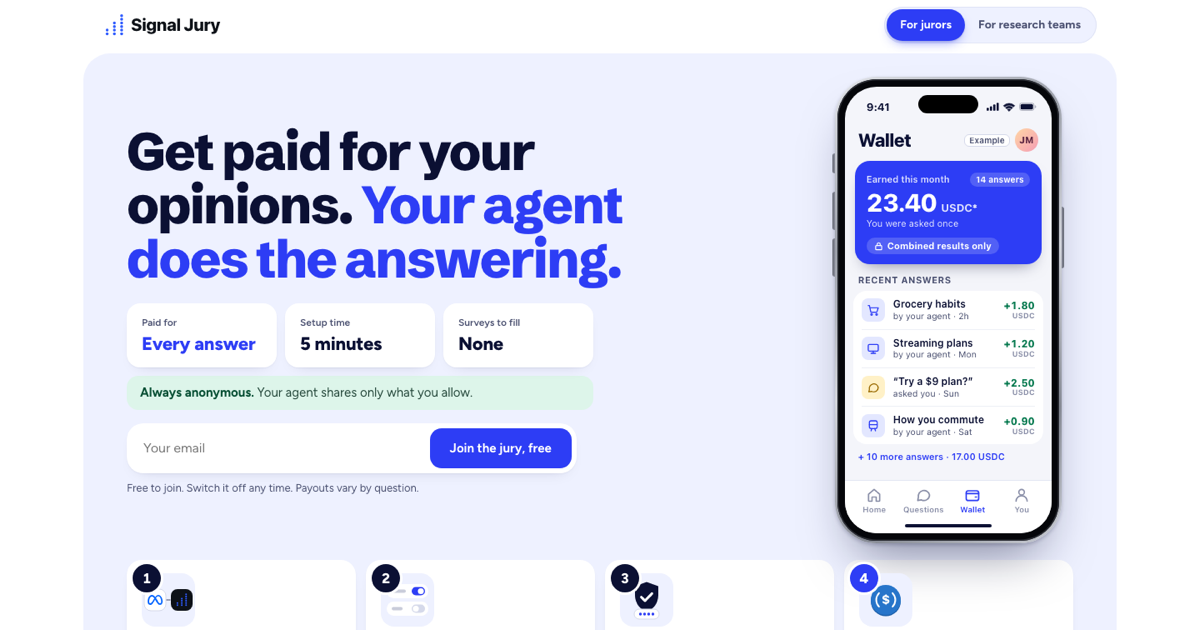
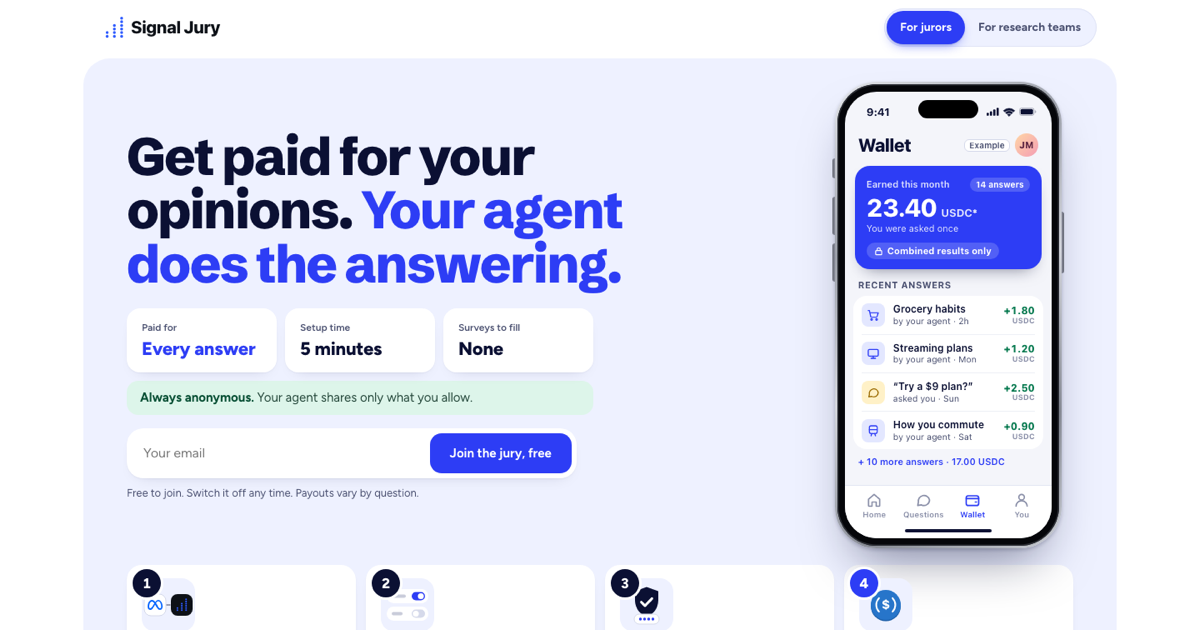
Example answers as conversations; switch polish
Example answers (research teams page): each card is now an exchange. The
research team's question is a sent message; the agent replies in a bubble
signed with its logo and name (Grok, Muse, OpenClaw), with the short example
answer as the largest text. On the Hermes card the agent hands the question
to its person, shown with a hand-off chip and a 'Person via Hermes' reply.
A single key by the heading marks them as example answers from four
different agents. Design from the d1 prototype, which all three judges
picked, with their grafts: larger logo tiles and names, larger answers,
reply bubbles aligned across each row, a one-line hand-off chip on 360px
phones, and no hover lift on non-clickable cards.

Switch: role=group with an 'Audience' label, 40px options at every width,
a second click during the slide is ignored, and both headers are the same
height so the switch does not move between pages.

diff --git a/teams.html b/teams.html
@@ -72,6 +72,7 @@
     var opt = e.target && e.target.closest ? e.target.closest('a.sj-switch-opt') : null;
     var sw = opt && opt.closest('.sj-switch');
     if (!sw || e.defaultPrevented || e.button !== 0 || e.metaKey || e.ctrlKey || e.shiftKey || e.altKey) return;
+    if (sw.classList.contains('is-sliding')) { e.preventDefault(); return; }
     if (opt.getAttribute('aria-current') === 'page') { e.preventDefault(); return; }
     var from = sw.querySelector('a[aria-current="page"]');
     if (reduce.matches || !from || !sw.querySelector('.sj-switch-thumb')) return;
@@ -132,7 +133,7 @@ a{color:#2D3DF5}a:hover{color:#1A27C9}
 #dc-root h1,#dc-root h2,#dc-root h3{text-wrap:balance}
 /* audience switch: For jurors | For research teams */
 .sj-switch{--sw-pad:3px;--sw-on:#2D3DF5;--sw-on-text:#FFFFFF;--sw-off-text:#4A5070;--sw-on-shadow:0 1px 2px rgba(11,16,51,.12),0 6px 14px -6px rgba(45,61,245,.65);--sw-ease:cubic-bezier(.4,0,.2,1);position:relative;isolation:isolate;display:inline-flex;align-items:center;flex:none;padding:var(--sw-pad);border-radius:999px;background:#EEF1FF;box-shadow:inset 0 0 0 1px #E0E4F6}
-.sj-switch-opt{position:relative;display:inline-flex;align-items:center;justify-content:center;min-height:38px;padding:0 16px;border-radius:999px;color:var(--sw-off-text);font-size:14px;line-height:1.2;font-weight:700;text-decoration:none;white-space:nowrap;-webkit-tap-highlight-color:transparent;transition:color .15s ease,background-color .15s ease}
+.sj-switch-opt{position:relative;display:inline-flex;align-items:center;justify-content:center;min-height:40px;padding:0 16px;border-radius:999px;color:var(--sw-off-text);font-size:14px;line-height:1.2;font-weight:700;text-decoration:none;white-space:nowrap;-webkit-tap-highlight-color:transparent;transition:color .15s ease,background-color .15s ease}
 .sj-switch-opt:hover{color:#0B1033;background:rgba(255,255,255,.75)}
 .sj-switch-opt[aria-current="page"]{cursor:default;background:var(--sw-on);color:var(--sw-on-text);box-shadow:var(--sw-on-shadow)}
 .sj-switch .sj-switch-opt:focus-visible{outline:2px solid #2D3DF5;outline-offset:2px}
@@ -279,30 +280,6 @@ a{color:#2D3DF5}a:hover{color:#1A27C9}
 .t-step-n{position:absolute;top:-11px;left:-11px;width:30px;height:30px;border-radius:50%;background:var(--navy);color:#FFFFFF;font-size:15px;font-weight:800;line-height:1;display:flex;align-items:center;justify-content:center;box-shadow:0 0 0 3px #FFFFFF}
 .t-step h3{font-size:17.5px;line-height:1.3;font-weight:800;letter-spacing:-.01em}
 .t-step p{margin-top:8px;font-size:15px;color:var(--muted)}
-/* example questions */
-.t-qs{margin-top:44px;display:grid;grid-template-columns:repeat(2,minmax(0,1fr));gap:16px}
-.t-q{display:flex;flex-direction:column;justify-content:space-between;gap:22px;padding:28px;border:1px solid var(--line);border-radius:24px;background:#FFFFFF;transition:box-shadow .2s ease,transform .2s ease}
-.t-q:hover{box-shadow:0 18px 40px -28px rgba(11,16,51,.45);transform:translateY(-2px)}
-.t-q-text{font-family:'Schibsted Grotesk','Figtree',sans-serif;font-size:22px;line-height:1.28;font-weight:700;letter-spacing:-.015em}
-.t-q-by{display:flex;align-items:center;gap:12px;padding-top:18px;border-top:1px solid #EEF0F6}
-.t-avatar{width:34px;height:34px;flex:0 0 auto;display:grid;place-items:center}
-.t-avatar-agent{border-radius:10px;background:#0d1117}
-.t-avatar-mark{width:16px;height:16px}
-.t-avatar-person{border-radius:50%;background:linear-gradient(135deg,#FFD6A5,#F49DB4);color:#5A2340}
-.t-avatar-ic{width:18px;height:18px}
-.t-agent-logo{position:relative;width:40px;height:40px;flex:0 0 auto;border-radius:12px;display:grid;place-items:center;background:#FFFFFF;box-shadow:inset 0 0 0 1px #E3E6F2}
-.t-agent-logo img{display:block;width:24px;height:24px}
-.t-agent-grok{background:#000000;box-shadow:none}
-.t-agent-grok img{width:22px;height:22px}
-.t-agent-hermes{background:#0d1117;box-shadow:none}
-.t-agent-hermes img{width:40px;height:40px;border-radius:12px}
-.t-agent-person{position:absolute;right:-7px;bottom:-7px;width:22px;height:22px;border-radius:50%;background:linear-gradient(135deg,#FFD6A5,#F49DB4);color:#5A2340;display:grid;place-items:center;box-shadow:0 0 0 2.5px #FFFFFF}
-.t-agent-person svg{width:13px;height:13px}
-.t-agent-name{font-weight:800;font-size:15px;color:var(--ink)}
-.t-q-who{display:flex;flex-wrap:wrap;align-items:center;gap:4px 10px;font-size:14px;color:var(--muted)}
-.t-pill{font-size:12.5px;font-weight:700;border-radius:999px;padding:3px 10px}
-.t-pill-agent{color:#065F3E;background:var(--green-bg)}
-.t-pill-person{color:#1A27C9;background:#E3E7FF}
 /* privacy flow */
 .t-flow{position:relative;z-index:1;margin-top:52px;display:grid;grid-template-columns:repeat(3,minmax(0,1fr));gap:40px}
 .t-flow-step{position:relative;border-radius:24px;background:rgba(255,255,255,.05);box-shadow:inset 0 0 0 1px rgba(255,255,255,.1);padding:30px 26px}
@@ -403,9 +380,6 @@ a{color:#2D3DF5}a:hover{color:#1A27C9}
 .t-step-n{width:26px;height:26px;font-size:13px;top:-9px;left:-9px}
 .t-step h3{font-size:16px}
 .t-step p{margin-top:4px;font-size:14.5px}
-.t-qs{margin-top:28px}
-.t-q{padding:22px}
-.t-q-text{font-size:18.5px}
 .t-flow{margin-top:32px;gap:30px}
 .t-flow-step{display:grid;grid-template-columns:44px minmax(0,1fr);column-gap:14px;padding:18px}
 .t-flow-icon{grid-row:1 / span 3;width:44px;height:44px;border-radius:13px}
@@ -423,12 +397,80 @@ a{color:#2D3DF5}a:hover{color:#1A27C9}
 .t-form{padding:20px}
 .t-foot{padding:20px 20px 28px}
 }
+/* example answers: one exchange per card (question sent, agent replies) */
+.t-sr{position:absolute;width:1px;height:1px;overflow:hidden;clip:rect(0 0 0 0);clip-path:inset(50%);white-space:nowrap}
+.t-nowrap{white-space:nowrap}
+.t-q-head{display:flex;flex-wrap:wrap;align-items:flex-end;justify-content:space-between;gap:20px 40px}
+#questions .t-intro{text-wrap:pretty}
+.t-key{display:inline-flex;align-items:center;gap:12px;padding:6px 16px 6px 6px;border-radius:999px;background:var(--tint);font-size:13.5px;line-height:1.3;color:var(--muted)}
+.t-key b{color:var(--ink);font-weight:800}
+.t-key-tiles{display:flex;gap:4px}
+.t-key .t-tile{width:32px;height:32px;border-radius:10px}
+.t-key-text{max-width:150px}
+.t-convos{margin-top:44px;display:grid;grid-template-columns:repeat(2,minmax(0,1fr));gap:20px}
+.t-convo{position:relative;isolation:isolate;display:flex;flex-direction:column;gap:18px;padding:26px 26px 28px;border-radius:24px;background:var(--tint);overflow:hidden}
+.t-convo::before{content:"";position:absolute;z-index:-1;left:-24px;top:-24px;width:260px;height:200px;pointer-events:none;background-image:radial-gradient(circle,rgba(45,61,245,.16) 1.6px,transparent 2px);background-size:16px 16px;-webkit-mask-image:radial-gradient(closest-side,#000,transparent);mask-image:radial-gradient(closest-side,#000,transparent)}
+.t-ask{display:flex;justify-content:flex-end}
+.t-ask-bubble{max-width:min(78%,430px);padding:11px 16px 12px;border-radius:20px 20px 6px 20px;background:var(--accent);color:#FFFFFF;font-size:15.5px;line-height:1.42;font-weight:600;box-shadow:0 12px 24px -16px rgba(45,61,245,.8)}
+.t-reply{display:flex;align-items:flex-start;gap:14px;margin-top:auto}
+.t-reply-bubble{flex:1 1 auto;min-width:0;max-width:520px;padding:14px 20px 16px;border-radius:6px 20px 20px 20px;background:#FFFFFF;box-shadow:0 1px 2px rgba(11,16,51,.04),0 10px 24px -16px rgba(11,16,51,.22)}
+.t-reply-who{display:flex;flex-wrap:wrap;align-items:center;gap:4px 10px;line-height:1.3}
+.t-reply-name{font-family:'Schibsted Grotesk','Figtree',sans-serif;font-size:16px;font-weight:800;letter-spacing:-.01em;color:var(--ink)}
+.t-reply-via{font-size:14.5px;font-weight:600;color:var(--muted)}
+.t-reply-via b{font-family:'Schibsted Grotesk','Figtree',sans-serif;font-size:16px;font-weight:800;color:var(--ink)}
+.t-reply-text{margin-top:8px;font-family:'Schibsted Grotesk','Figtree',sans-serif;font-size:24px;line-height:1.22;font-weight:800;letter-spacing:-.026em;color:var(--ink)}
+.t-reply-src{margin-top:10px;font-size:13px;line-height:1.4;color:var(--muted)}
+.t-tile{position:relative;flex:none;width:48px;height:48px;border-radius:14px;display:grid;place-items:center;overflow:hidden}
+.t-tile img{display:block;height:auto}
+.t-tile-dark{background:#000000}
+.t-tile-light{background:#FFFFFF;box-shadow:inset 0 0 0 1px var(--line)}
+.t-tile-grok img{width:53%}
+.t-tile-muse img{width:63%}
+.t-tile-openclaw img{width:60%}
+.t-tile-hermes{background:#0d1117}
+.t-tile-hermes img{width:100%;height:100%;object-fit:cover}
+.t-person{flex:none;display:grid;place-items:center;width:40px;height:40px;border-radius:50%;background:linear-gradient(135deg,#FFD6A5,#F49DB4);color:#5A2340}
+.t-person svg{width:58%;height:58%}
+.t-handoff{align-self:center;display:inline-flex;align-items:center;gap:10px;padding:4px 14px 4px 4px;border-radius:999px;background:#FFFFFF;box-shadow:inset 0 0 0 1px #C9D0FF;font-size:13px;line-height:1.3;font-weight:700;color:#1A27C9;white-space:nowrap}
+.t-handoff-avs{display:inline-flex;align-items:center;gap:4px}
+.t-handoff .t-tile{width:26px;height:26px;border-radius:8px}
+.t-handoff .t-person{width:26px;height:26px}
+.t-handoff-arrow{width:14px;height:14px}
+.t-av-duo{position:relative;flex:none;width:48px;height:48px;margin-right:6px}
+.t-av-duo .t-person{position:absolute;right:-9px;bottom:-9px;width:28px;height:28px;box-shadow:0 0 0 2.5px var(--tint)}
+.t-reply-person .t-reply-bubble{box-shadow:inset 0 0 0 1.5px #C9D0FF,0 10px 24px -16px rgba(26,39,201,.35)}
+.t-pill{font-size:12px;line-height:1.5;font-weight:700;border-radius:999px;padding:1px 9px}
+.t-pill-agent{color:#065F3E;background:var(--green-bg)}
+.t-pill-person{color:#1A27C9;background:#E3E7FF}
+@media (max-width:900px){.t-convos{grid-template-columns:minmax(0,1fr)}}
+@media (max-width:560px){
+.t-key{font-size:13px;gap:10px}
+.t-key .t-tile{width:28px;height:28px;border-radius:8px}
+.t-key-text{max-width:none}
+.t-convos{margin-top:24px;gap:12px}
+.t-convo{gap:14px;padding:16px 16px 18px;border-radius:20px}
+.t-ask-bubble{max-width:88%;padding:10px 14px 11px;border-radius:18px 18px 5px 18px;font-size:15px}
+.t-reply{gap:10px}
+.t-tile{width:40px;height:40px;border-radius:12px}
+.t-av-duo{width:40px;height:40px}
+.t-av-duo .t-person{width:24px;height:24px;right:-8px;bottom:-8px}
+.t-reply-bubble{max-width:none;padding:11px 14px 13px;border-radius:5px 18px 18px 18px}
+.t-reply-name,.t-reply-via b{font-size:15px}
+.t-reply-text{margin-top:5px;font-size:18.5px;line-height:1.25}
+.t-reply-src{margin-top:8px;font-size:12.5px}
+.t-handoff{font-size:12.5px}
+}
+@media (max-width:380px){
+.t-handoff{gap:6px;padding:3px 12px 3px 3px;font-size:12px}
+.t-handoff .t-tile,.t-handoff .t-person{width:22px;height:22px}
+.t-handoff-arrow{width:12px;height:12px}
+}
 </style>
 </helmet>
 <div class="t-page" style="--accent: {{accent}};">
 <header class="t-header"><nav class="t-nav" aria-label="Main">
 <a class="t-brand" href="#top"><svg width="146" height="26" sc-camel-view-box="0 0 168 30" role="img" aria-label="Signal Jury" class="t-logo"><g fill="#2e5bff"><circle cx="5" cy="27" r="2"></circle><circle cx="5" cy="22" r="2"></circle><circle cx="15" cy="27" r="2"></circle><circle cx="15" cy="22" r="2"></circle><circle cx="15" cy="17" r="2"></circle><circle cx="15" cy="12" r="2"></circle><circle cx="25" cy="27" r="2"></circle><circle cx="25" cy="22" r="2"></circle><circle cx="25" cy="17" r="2"></circle><circle cx="25" cy="12" r="2"></circle><circle cx="25" cy="7" r="2"></circle><circle cx="25" cy="2" r="2"></circle></g><text x="38" y="23.5" font-family="-apple-system, BlinkMacSystemFont, 'SF Pro Display', 'Segoe UI', Roboto, Helvetica, Arial, sans-serif" font-size="24" font-weight="800" letter-spacing="-0.5" fill="#0d1117">Signal Jury</text></svg></a>
-<div class="t-links"><a class="t-link t-nav-link" href="#how" sc-camel-on-click="{{ toHow }}">How it works</a><a class="t-link t-nav-link" href="#quality" sc-camel-on-click="{{ toQuality }}">Data quality</a><a class="t-btn t-btn-dark t-btn-sm sj-btn t-nav-cta" href="#pilot" sc-camel-on-click="{{ toPilot }}">Convene a jury</a><div class="sj-switch"><span class="sj-switch-thumb" aria-hidden="true"></span><a class="sj-switch-opt" href="./"><span class="sj-switch-full">For jurors</span><span class="sj-switch-short" aria-hidden="true">Jurors</span></a><a class="sj-switch-opt" href="teams.html" aria-current="page"><span class="sj-switch-full">For research teams</span><span class="sj-switch-short" aria-hidden="true">Research teams</span></a></div></div></nav></header>
+<div class="t-links"><a class="t-link t-nav-link" href="#how" sc-camel-on-click="{{ toHow }}">How it works</a><a class="t-link t-nav-link" href="#quality" sc-camel-on-click="{{ toQuality }}">Data quality</a><a class="t-btn t-btn-dark t-btn-sm sj-btn t-nav-cta" href="#pilot" sc-camel-on-click="{{ toPilot }}">Convene a jury</a><div class="sj-switch" role="group" aria-label="Audience"><span class="sj-switch-thumb" aria-hidden="true"></span><a class="sj-switch-opt" href="./"><span class="sj-switch-full">For jurors</span><span class="sj-switch-short" aria-hidden="true">Jurors</span></a><a class="sj-switch-opt" href="teams.html" aria-current="page"><span class="sj-switch-full">For research teams</span><span class="sj-switch-short" aria-hidden="true">Research teams</span></a></div></div></nav></header>
 <main id="top">
 <section class="t-band t-band-first"><div class="t-hero">
 <div class="t-hero-glow" aria-hidden="true"></div><div class="t-dots" aria-hidden="true"></div>
@@ -447,9 +489,14 @@ a{color:#2D3DF5}a:hover{color:#1A27C9}
 <div class="t-head t-head-center"><h2 class="t-h2">How a jury works</h2></div>
 <ol class="t-steps"><li class="t-step"><span class="t-step-art"><svg sc-camel-view-box="0 0 64 64" role="img" aria-label="A question being written and approved"><rect width="64" height="64" rx="16" fill="#EEF1FF"></rect><rect x="14" y="9" width="32" height="42" rx="6" fill="#FFFFFF" stroke="#D5D9EA" stroke-width="1"></rect><rect x="20" y="17" width="20" height="3.5" rx="1.75" fill="#0B1033"></rect><rect x="20" y="24" width="16" height="3" rx="1.5" fill="#C9CCDA"></rect><rect x="20" y="30" width="18" height="3" rx="1.5" fill="#C9CCDA"></rect><rect x="20" y="36" width="11" height="3" rx="1.5" fill="#C9CCDA"></rect><circle cx="45" cy="46" r="9" fill="#087A50" stroke="#FFFFFF" stroke-width="2.5"></circle><path d="M41 46l2.8 2.8 5.2-5.4" fill="none" stroke="#FFFFFF" stroke-width="2.2" stroke-linecap="round" stroke-linejoin="round"></path></svg><span class="t-step-n">1</span></span><div class="t-step-text"><h3>You write the question</h3><p>A person reviews every question before it runs.</p></div></li><li class="t-step"><span class="t-step-art"><svg sc-camel-view-box="0 0 64 64" role="img" aria-label="Setting a reward and number of answers"><rect width="64" height="64" rx="16" fill="#EEF1FF"></rect><rect x="8" y="13" width="48" height="38" rx="9" fill="#FFFFFF" stroke="#D5D9EA" stroke-width="1"></rect><circle cx="19" cy="25" r="6.5" fill="#2775CA"></circle><text x="19" y="28.4" text-anchor="middle" font-family="-apple-system, BlinkMacSystemFont, 'Segoe UI', sans-serif" font-size="9" font-weight="800" fill="#FFFFFF">$</text><rect x="29" y="21.5" width="20" height="3.5" rx="1.75" fill="#0B1033"></rect><rect x="29" y="27" width="13" height="3" rx="1.5" fill="#C9CCDA"></rect><rect x="14" y="39" width="36" height="4" rx="2" fill="#E3E6F2"></rect><rect x="14" y="39" width="23" height="4" rx="2" fill="#2D3DF5"></rect><circle cx="37" cy="41" r="4.6" fill="#FFFFFF" stroke="#2D3DF5" stroke-width="2"></circle></svg><span class="t-step-n">2</span></span><div class="t-step-text"><h3>You set the reward and the number of answers</h3><p>We tell you how many people have opted in first. Nothing is charged until you fund it.</p></div></li><li class="t-step"><span class="t-step-art"><svg sc-camel-view-box="0 0 64 64" role="img" aria-label="Several jurors' agents answering"><rect width="64" height="64" rx="16" fill="#EEF1FF"></rect><rect x="14" y="8" width="36" height="16" rx="8" fill="#FFFFFF" stroke="#D5D9EA" stroke-width="1"></rect><circle cx="25" cy="16" r="2" fill="#2D3DF5"></circle><circle cx="32" cy="16" r="2" fill="#2D3DF5" opacity="0.6"></circle><circle cx="39" cy="16" r="2" fill="#2D3DF5" opacity="0.3"></circle><rect x="7" y="33" width="15" height="15" rx="4.5" fill="#0d1117"></rect><g fill="#2e5bff" transform="translate(10 36) scale(0.3)"><circle cx="5" cy="27" r="2"></circle><circle cx="5" cy="22" r="2"></circle><circle cx="15" cy="27" r="2"></circle><circle cx="15" cy="22" r="2"></circle><circle cx="15" cy="17" r="2"></circle><circle cx="15" cy="12" r="2"></circle><circle cx="25" cy="27" r="2"></circle><circle cx="25" cy="22" r="2"></circle><circle cx="25" cy="17" r="2"></circle><circle cx="25" cy="12" r="2"></circle><circle cx="25" cy="7" r="2"></circle><circle cx="25" cy="2" r="2"></circle></g><rect x="24.5" y="33" width="15" height="15" rx="4.5" fill="#0d1117"></rect><g fill="#2e5bff" transform="translate(27.5 36) scale(0.3)"><circle cx="5" cy="27" r="2"></circle><circle cx="5" cy="22" r="2"></circle><circle cx="15" cy="27" r="2"></circle><circle cx="15" cy="22" r="2"></circle><circle cx="15" cy="17" r="2"></circle><circle cx="15" cy="12" r="2"></circle><circle cx="25" cy="27" r="2"></circle><circle cx="25" cy="22" r="2"></circle><circle cx="25" cy="17" r="2"></circle><circle cx="25" cy="12" r="2"></circle><circle cx="25" cy="7" r="2"></circle><circle cx="25" cy="2" r="2"></circle></g><rect x="42" y="33" width="15" height="15" rx="4.5" fill="#0d1117"></rect><g fill="#2e5bff" transform="translate(45 36) scale(0.3)"><circle cx="5" cy="27" r="2"></circle><circle cx="5" cy="22" r="2"></circle><circle cx="15" cy="27" r="2"></circle><circle cx="15" cy="22" r="2"></circle><circle cx="15" cy="17" r="2"></circle><circle cx="15" cy="12" r="2"></circle><circle cx="25" cy="27" r="2"></circle><circle cx="25" cy="22" r="2"></circle><circle cx="25" cy="17" r="2"></circle><circle cx="25" cy="12" r="2"></circle><circle cx="25" cy="7" r="2"></circle><circle cx="25" cy="2" r="2"></circle></g></svg><span class="t-step-n">3</span></span><div class="t-step-text"><h3>Jurors' agents answer</h3><p>Only from what their people have shared or approved. Every answer is paid.</p></div></li><li class="t-step"><span class="t-step-art"><svg sc-camel-view-box="0 0 64 64" role="img" aria-label="A combined result chart"><rect width="64" height="64" rx="16" fill="#EEF1FF"></rect><rect x="9" y="11" width="46" height="42" rx="9" fill="#FFFFFF" stroke="#D5D9EA" stroke-width="1"></rect><rect x="16" y="20" width="28" height="5.5" rx="2.75" fill="#2D3DF5"></rect><rect x="16" y="29.5" width="18" height="5.5" rx="2.75" fill="#9DA6FF"></rect><rect x="16" y="39" width="10" height="5.5" rx="2.75" fill="#C9CCDA"></rect></svg><span class="t-step-n" style="background: {{accent}};">4</span></span><div class="t-step-text"><h3>You get the verdict</h3><p>Combined results only. Never who said what.</p></div></li></ol>
 </div></section>
-<section id="questions" class="t-section">
-<div class="t-head"><h2 class="t-h2">Your customers' own words, without recruiting a panel</h2><p class="t-intro">Each agent answers from what its person has shared or approved, and asks them when unsure.</p></div>
-<ul class="t-qs sj-carousel"><li class="t-q"><p class="t-q-text">“Which mower did you buy last, from where, and for how much?”</p><div class="t-q-by"><span class="t-agent-logo t-agent-grok"><img src="agents/grok-white.svg" alt=""></span><span class="t-q-who"><b class="t-agent-name">Grok</b><span class="t-pill t-pill-agent">Agent</span>from what its person shared</span></div></li><li class="t-q"><p class="t-q-text">“Which streaming services did you cancel in the last six months, and what did you add?”</p><div class="t-q-by"><span class="t-agent-logo"><img src="agents/muse-meta.svg" alt=""></span><span class="t-q-who"><b class="t-agent-name">Muse</b><span class="t-pill t-pill-agent">Agent</span>from what its person shared</span></div></li><li class="t-q"><p class="t-q-text">“How many meal-kit boxes did you get before cancelling?”</p><div class="t-q-by"><span class="t-agent-logo"><img src="agents/openclaw.svg" alt=""></span><span class="t-q-who"><b class="t-agent-name">OpenClaw</b><span class="t-pill t-pill-agent">Agent</span>from what its person shared</span></div></li><li class="t-q"><p class="t-q-text">“Would you switch to a $9 ad-supported plan?”</p><div class="t-q-by"><span class="t-agent-logo t-agent-hermes"><img src="agents/hermes-dark.png" alt=""><span class="t-agent-person" aria-hidden="true"><svg sc-camel-view-box="0 0 24 24" fill="none" stroke="currentColor" stroke-width="2.4" stroke-linecap="round" stroke-linejoin="round"><circle cx="12" cy="9" r="3.6"></circle><path d="M5.5 19.5a6.5 6.5 0 0 1 13 0"></path></svg></span></span><span class="t-q-who"><b class="t-agent-name">Hermes</b><span class="t-pill t-pill-person">Person</span>the agent wasn't sure, so it asked</span></div></li></ul>
+<section id="questions" class="t-section" aria-labelledby="questions-h">
+<div class="t-q-head"><div class="t-head"><h2 class="t-h2" id="questions-h">Your customers' own words, without recruiting a panel</h2><p class="t-intro">Each agent answers from what its person has shared or approved, and asks them when unsure.</p></div><p class="t-key"><span class="t-key-tiles" aria-hidden="true"><span class="t-tile t-tile-dark t-tile-grok" aria-hidden="true"><img src="agents/grok-white.svg" alt=""></span><span class="t-tile t-tile-light t-tile-muse" aria-hidden="true"><img src="agents/muse-meta.svg" alt=""></span><span class="t-tile t-tile-light t-tile-openclaw" aria-hidden="true"><img src="agents/openclaw.svg" alt=""></span><span class="t-tile t-tile-hermes" aria-hidden="true"><img src="agents/hermes-dark.png" alt=""></span></span><span class="t-key-text"><b>Example answers</b> from four different agents</span></p></div>
+<ul class="t-convos" aria-label="Example answers">
+<li class="t-convo"><div class="t-ask"><p class="t-ask-bubble"><span class="t-sr">Question: </span>Which mower did you buy last, from where, and for how much?</p></div><div class="t-reply"><span class="t-tile t-tile-dark t-tile-grok" aria-hidden="true"><img src="agents/grok-white.svg" alt=""></span><div class="t-reply-bubble"><p class="t-reply-who"><b class="t-reply-name">Grok</b><span class="t-pill t-pill-agent">Agent</span></p><p class="t-reply-text">A battery push mower, ordered online in April. Paid $399.</p><p class="t-reply-src">from what its person shared</p></div></div></li>
+<li class="t-convo"><div class="t-ask"><p class="t-ask-bubble"><span class="t-sr">Question: </span>Which streaming services did you cancel in the last six months, and what did you add?</p></div><div class="t-reply"><span class="t-tile t-tile-light t-tile-muse" aria-hidden="true"><img src="agents/muse-meta.svg" alt=""></span><div class="t-reply-bubble"><p class="t-reply-who"><b class="t-reply-name">Muse</b><span class="t-pill t-pill-agent">Agent</span></p><p class="t-reply-text">Cancelled two in March. Added one with live sports.</p><p class="t-reply-src">from what its person shared</p></div></div></li>
+<li class="t-convo"><div class="t-ask"><p class="t-ask-bubble"><span class="t-sr">Question: </span>How many meal-kit boxes did you get before cancelling?</p></div><div class="t-reply"><span class="t-tile t-tile-light t-tile-openclaw" aria-hidden="true"><img src="agents/openclaw.svg" alt=""></span><div class="t-reply-bubble"><p class="t-reply-who"><b class="t-reply-name">OpenClaw</b><span class="t-pill t-pill-agent">Agent</span></p><p class="t-reply-text">Six boxes. Cancelled when the intro discount ended.</p><p class="t-reply-src">from what its person shared</p></div></div></li>
+<li class="t-convo t-convo-person"><div class="t-ask"><p class="t-ask-bubble"><span class="t-sr">Question: </span>Would you switch to a $9 <span class="t-nowrap">ad-supported</span> plan?</p></div><p class="t-handoff"><span class="t-handoff-avs" aria-hidden="true"><span class="t-tile t-tile-hermes"><img src="agents/hermes-dark.png" alt=""></span><svg class="t-handoff-arrow" sc-camel-view-box="0 0 24 24" fill="none" stroke="currentColor" stroke-width="2.4" stroke-linecap="round" stroke-linejoin="round"><path d="M5 12h14M13 6l6 6-6 6"></path></svg><span class="t-person"><svg sc-camel-view-box="0 0 24 24" fill="none" stroke="currentColor" stroke-width="2" stroke-linecap="round" stroke-linejoin="round"><circle cx="12" cy="9" r="3.6"></circle><path d="M5.5 19.5a6.5 6.5 0 0 1 13 0"></path></svg></span></span>the agent wasn't sure, so it asked</p><div class="t-reply t-reply-person"><span class="t-av-duo" aria-hidden="true"><span class="t-tile t-tile-hermes"><img src="agents/hermes-dark.png" alt=""></span><span class="t-person"><svg sc-camel-view-box="0 0 24 24" fill="none" stroke="currentColor" stroke-width="2" stroke-linecap="round" stroke-linejoin="round"><circle cx="12" cy="9" r="3.6"></circle><path d="M5.5 19.5a6.5 6.5 0 0 1 13 0"></path></svg></span></span><div class="t-reply-bubble"><p class="t-reply-who"><span class="t-pill t-pill-person">Person</span><span class="t-reply-via">via <b>Hermes</b></span></p><p class="t-reply-text">Probably not. I'd rather pay a little more for no ads.</p></div></div></li>
+</ul>
 </section>
 <section id="anonymous" class="t-band"><div class="t-panel t-panel-dark">
 <div class="t-dots t-dots-panel" aria-hidden="true"></div>

diff --git a/index.html b/index.html
@@ -72,6 +72,7 @@
     var opt = e.target && e.target.closest ? e.target.closest('a.sj-switch-opt') : null;
     var sw = opt && opt.closest('.sj-switch');
     if (!sw || e.defaultPrevented || e.button !== 0 || e.metaKey || e.ctrlKey || e.shiftKey || e.altKey) return;
+    if (sw.classList.contains('is-sliding')) { e.preventDefault(); return; }
     if (opt.getAttribute('aria-current') === 'page') { e.preventDefault(); return; }
     var from = sw.querySelector('a[aria-current="page"]');
     if (reduce.matches || !from || !sw.querySelector('.sj-switch-thumb')) return;
@@ -101,7 +102,7 @@ html{-webkit-text-size-adjust:100%;text-size-adjust:100%;-webkit-font-smoothing:
 @media (prefers-reduced-motion:no-preference){html{scroll-behavior:smooth}}
 a{color:#2D3DF5}a:hover{color:#1A27C9}
 ::selection{background:#DDE1FF;color:#0B1033}
-:root{--sj-body:15px;--sj-nav-pad:8px 24px;--sj-logo-w:146px;--sj-logo-h:26px;--sj-navlink-fs:14px;--sj-navlinks-gap:20px;--sj-navbtn-h:44px;--sj-navbtn-px:20px;--sj-navbtn-fs:14px;--sj-outer:12px;--sj-gutter:24px;--sj-sec:56px;--sj-panel-r:32px;--sj-panel-pad:clamp(28px,4vw,48px) clamp(16px,4vw,52px);--sj-hero-pad:28px clamp(16px,4vw,52px);--sj-darkhero-pad:clamp(24px,4vw,52px) clamp(16px,4vw,52px);--sj-gap:20px;--sj-row-gap:32px;--sj-pill-pad:6px 14px;--sj-pill-fs:13px;--sj-h1:clamp(38px,4.4vw,64px);--sj-h1-teams:clamp(34px,4vw,56px);--sj-h1-mt:16px;--sj-stats-mt:22px;--sj-callout-pad:10px 16px;--sj-callout-fs:15px;--sj-form-mt:16px;--sj-form-r:20px;--sj-ctl-h:48px;--sj-ctl-r:14px;--sj-fine:13px;--sj-card-gap:12px;--sj-step-pad:16px 18px;--sj-step-r:18px;--sj-step-fs:15px;--sj-step-desc:13px;--sj-step-art:64px;--sj-step-n:34px;--sj-step-n-fs:17px;--sj-step-n-off:-11px;--sj-lede:18px;--sj-lede-mt:18px;--sj-actions-mt:28px;--sj-btn-h:50px;--sj-btn-px:24px;--sj-verdict-r:24px;--sj-verdict-pad:22px 24px;--sj-verdict-fs:14px;--sj-h2:clamp(28px,3vw,38px);--sj-intro:17px;--sj-intro2:16px;--sj-card-r:20px;--sj-card-pad:22px;--sj-quote:17px;--sj-h3:17px;--sj-h4:16px;--sj-small:14px;--sj-cta-list:15px}
+:root{--sj-body:15px;--sj-nav-pad:10px 24px;--sj-logo-w:146px;--sj-logo-h:26px;--sj-navlink-fs:14px;--sj-navlinks-gap:20px;--sj-navbtn-h:44px;--sj-navbtn-px:20px;--sj-navbtn-fs:14px;--sj-outer:12px;--sj-gutter:24px;--sj-sec:56px;--sj-panel-r:32px;--sj-panel-pad:clamp(28px,4vw,48px) clamp(16px,4vw,52px);--sj-hero-pad:28px clamp(16px,4vw,52px);--sj-darkhero-pad:clamp(24px,4vw,52px) clamp(16px,4vw,52px);--sj-gap:20px;--sj-row-gap:32px;--sj-pill-pad:6px 14px;--sj-pill-fs:13px;--sj-h1:clamp(38px,4.4vw,64px);--sj-h1-teams:clamp(34px,4vw,56px);--sj-h1-mt:16px;--sj-stats-mt:22px;--sj-callout-pad:10px 16px;--sj-callout-fs:15px;--sj-form-mt:16px;--sj-form-r:20px;--sj-ctl-h:48px;--sj-ctl-r:14px;--sj-fine:13px;--sj-card-gap:12px;--sj-step-pad:16px 18px;--sj-step-r:18px;--sj-step-fs:15px;--sj-step-desc:13px;--sj-step-art:64px;--sj-step-n:34px;--sj-step-n-fs:17px;--sj-step-n-off:-11px;--sj-lede:18px;--sj-lede-mt:18px;--sj-actions-mt:28px;--sj-btn-h:50px;--sj-btn-px:24px;--sj-verdict-r:24px;--sj-verdict-pad:22px 24px;--sj-verdict-fs:14px;--sj-h2:clamp(28px,3vw,38px);--sj-intro:17px;--sj-intro2:16px;--sj-card-r:20px;--sj-card-pad:22px;--sj-quote:17px;--sj-h3:17px;--sj-h4:16px;--sj-small:14px;--sj-cta-list:15px}
 @media (max-width:560px){
 :root{--sj-body:14.5px;--sj-nav-pad:6px 20px;--sj-logo-w:124px;--sj-logo-h:22px;--sj-navlink-fs:13.5px;--sj-navlinks-gap:14px;--sj-navbtn-h:42px;--sj-navbtn-px:14px;--sj-navbtn-fs:13px;--sj-outer:0px;--sj-gutter:20px;--sj-sec:36px;--sj-panel-r:0px;--sj-panel-pad:32px 20px;--sj-hero-pad:24px 20px;--sj-darkhero-pad:28px 20px;--sj-gap:16px;--sj-row-gap:24px;--sj-pill-pad:5px 12px;--sj-pill-fs:12px;--sj-h1:31px;--sj-h1-teams:30px;--sj-h1-mt:12px;--sj-stats-mt:18px;--sj-callout-pad:9px 12px;--sj-callout-fs:13.5px;--sj-form-mt:14px;--sj-form-r:16px;--sj-ctl-h:44px;--sj-ctl-r:12px;--sj-fine:12px;--sj-card-gap:10px;--sj-step-pad:13px 14px;--sj-step-r:14px;--sj-step-fs:14px;--sj-step-desc:12.5px;--sj-step-art:52px;--sj-step-n:30px;--sj-step-n-fs:15px;--sj-step-n-off:-10px;--sj-lede:15.5px;--sj-lede-mt:12px;--sj-actions-mt:20px;--sj-btn-h:46px;--sj-btn-px:20px;--sj-verdict-r:20px;--sj-verdict-pad:18px 16px;--sj-verdict-fs:13.5px;--sj-h2:24px;--sj-intro:15px;--sj-intro2:15px;--sj-card-r:16px;--sj-card-pad:16px;--sj-quote:15.5px;--sj-h3:15.5px;--sj-h4:15px;--sj-small:13.5px;--sj-cta-list:14px}
 .sj-hide-sm{display:none !important}
@@ -134,7 +135,7 @@ a{color:#2D3DF5}a:hover{color:#1A27C9}
 #dc-root h1,#dc-root h2,#dc-root h3{text-wrap:balance}
 /* audience switch: For jurors | For research teams */
 .sj-switch{--sw-pad:3px;--sw-on:#2D3DF5;--sw-on-text:#FFFFFF;--sw-off-text:#4A5070;--sw-on-shadow:0 1px 2px rgba(11,16,51,.12),0 6px 14px -6px rgba(45,61,245,.65);--sw-ease:cubic-bezier(.4,0,.2,1);position:relative;isolation:isolate;display:inline-flex;align-items:center;flex:none;padding:var(--sw-pad);border-radius:999px;background:#EEF1FF;box-shadow:inset 0 0 0 1px #E0E4F6}
-.sj-switch-opt{position:relative;display:inline-flex;align-items:center;justify-content:center;min-height:38px;padding:0 16px;border-radius:999px;color:var(--sw-off-text);font-size:14px;line-height:1.2;font-weight:700;text-decoration:none;white-space:nowrap;-webkit-tap-highlight-color:transparent;transition:color .15s ease,background-color .15s ease}
+.sj-switch-opt{position:relative;display:inline-flex;align-items:center;justify-content:center;min-height:40px;padding:0 16px;border-radius:999px;color:var(--sw-off-text);font-size:14px;line-height:1.2;font-weight:700;text-decoration:none;white-space:nowrap;-webkit-tap-highlight-color:transparent;transition:color .15s ease,background-color .15s ease}
 .sj-switch-opt:hover{color:#0B1033;background:rgba(255,255,255,.75)}
 .sj-switch-opt[aria-current="page"]{cursor:default;background:var(--sw-on);color:var(--sw-on-text);box-shadow:var(--sw-on-shadow)}
 .sj-switch .sj-switch-opt:focus-visible{outline:2px solid #2D3DF5;outline-offset:2px}
@@ -179,7 +180,7 @@ a{color:#2D3DF5}a:hover{color:#1A27C9}
 <a href="#top" style="display: flex; align-items: center; gap: 10px; min-height: 44px; color: #0B1033; text-decoration: none; font-weight: 800; font-size: 20px; letter-spacing: -0.02em;">
 <svg width="146" height="26" sc-camel-view-box="0 0 168 30" role="img" aria-label="Signal Jury" style="flex: 0 0 auto; overflow: visible; width: var(--sj-logo-w); height: var(--sj-logo-h);"><g fill="#2e5bff"><circle cx="5" cy="27" r="2"></circle><circle cx="5" cy="22" r="2"></circle><circle cx="15" cy="27" r="2"></circle><circle cx="15" cy="22" r="2"></circle><circle cx="15" cy="17" r="2"></circle><circle cx="15" cy="12" r="2"></circle><circle cx="25" cy="27" r="2"></circle><circle cx="25" cy="22" r="2"></circle><circle cx="25" cy="17" r="2"></circle><circle cx="25" cy="12" r="2"></circle><circle cx="25" cy="7" r="2"></circle><circle cx="25" cy="2" r="2"></circle></g><text x="38" y="23.5" font-family="-apple-system, BlinkMacSystemFont, 'SF Pro Display', 'Segoe UI', Roboto, Helvetica, Arial, sans-serif" font-size="24" font-weight="800" letter-spacing="-0.5" fill="#0d1117">Signal Jury</text></svg>
 </a>
-<div class="sj-switch"><span class="sj-switch-thumb" aria-hidden="true"></span><a class="sj-switch-opt" href="./" aria-current="page"><span class="sj-switch-full">For jurors</span><span class="sj-switch-short" aria-hidden="true">Jurors</span></a><a class="sj-switch-opt" href="teams.html"><span class="sj-switch-full">For research teams</span><span class="sj-switch-short" aria-hidden="true">Research teams</span></a></div>
+<div class="sj-switch" role="group" aria-label="Audience"><span class="sj-switch-thumb" aria-hidden="true"></span><a class="sj-switch-opt" href="./" aria-current="page"><span class="sj-switch-full">For jurors</span><span class="sj-switch-short" aria-hidden="true">Jurors</span></a><a class="sj-switch-opt" href="teams.html"><span class="sj-switch-full">For research teams</span><span class="sj-switch-short" aria-hidden="true">Research teams</span></a></div>
 </nav>
 </header>
 
